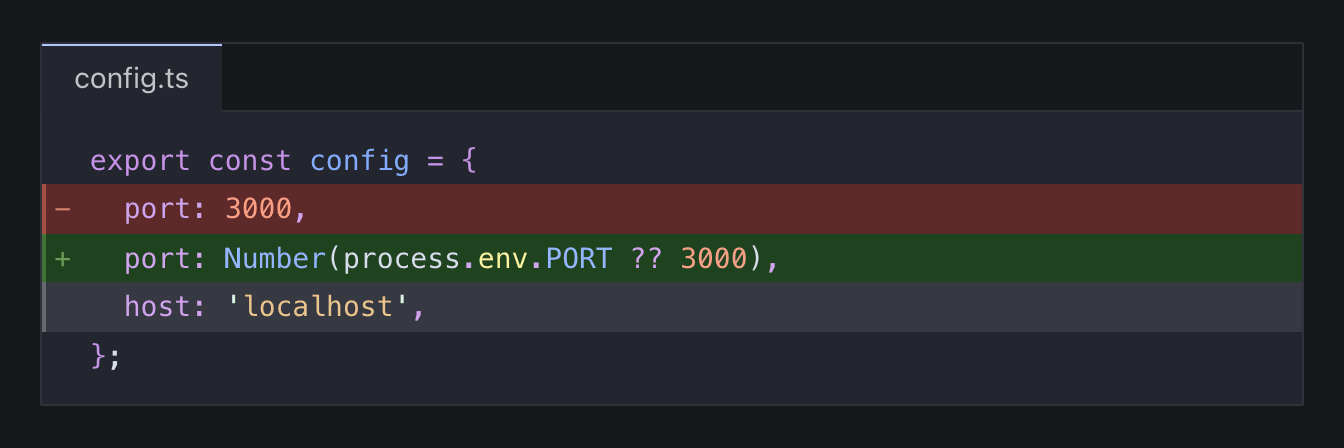
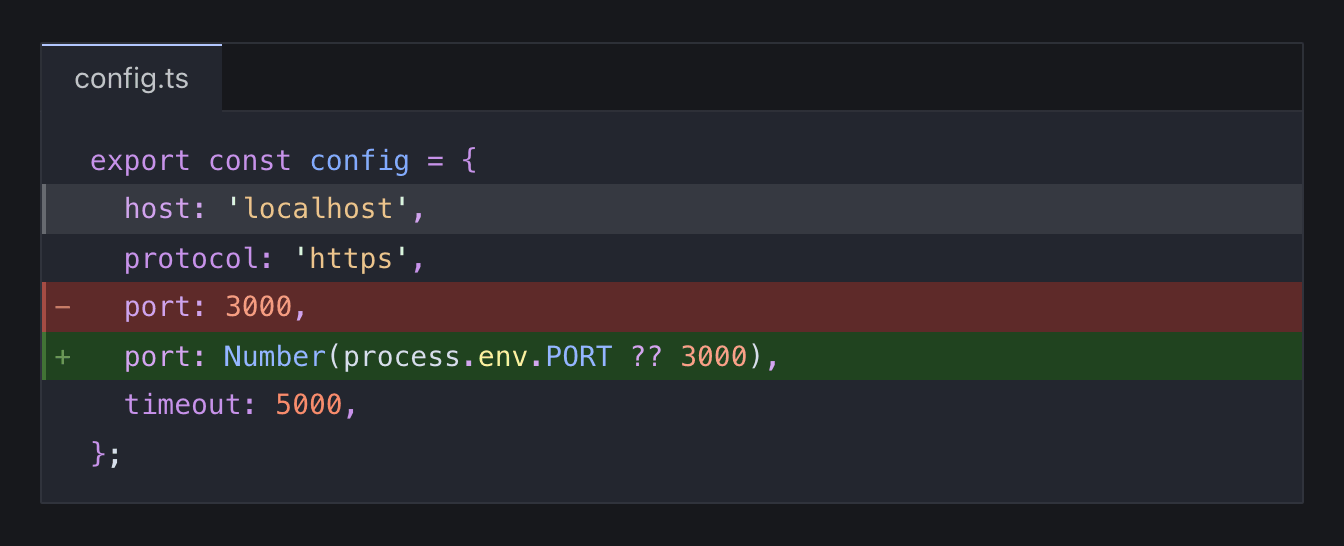
docs: space out the comment notation example
Claude-Session: https://claude.ai/code/session_01GniRZwTYdQnmyghVvVJXuq

diff --git a/docs/e2e/comment-notation.test.ts b/docs/e2e/comment-notation.test.ts
@@ -13,7 +13,7 @@ test('directives change their lines and disappear from the code and the copied t
   await page.keyboard.press('Enter');
   const copied = await page.evaluate(() => navigator.clipboard.readText());
   expect(copied).toBe(
-    "export const config = {\n  port: 3000,\n  port: Number(process.env.PORT ?? 3000),\n  host: 'localhost',\n};",
+    "export const config = {\n  host: 'localhost',\n  protocol: 'https',\n  port: 3000,\n  port: Number(process.env.PORT ?? 3000),\n  timeout: 5000,\n};",
   );
 });
 

diff --git a/design/DECISIONS.md b/design/DECISIONS.md
@@ -905,3 +905,11 @@ Use this format:
 - Decision: `<FeatureCarousel>` excludes `features/comment-notation` from the slides and the picker, even though it is still a `features/…` page in the "Start here" sidebar group. `docs/src/index.mdx` no longer has a `<Feature page="features/comment-notation">` slide. "Start here" then has no features, so it drops out of the carousel groups (its `.filter((group) => group.features.length > 0)` already handles this), and the carousel opens on "Explain code" → Annotations. The sidebar keeps comment notation under "Start here", because that is where authors learn the directive syntax before they use it in a feature.
 - Reason: The user said comment notation is shared syntax, not a feature in its own right, and one of the least impressive things to lead with on the home page.
 - Alternatives: Move comment notation to a different sidebar group so the existing "every `features/…` item is a slide" rule keeps working unchanged. Rejected: the sidebar placement under "Start here" is deliberate (see the "docs structure" decision above) and the user did not ask to change it.
+
+## Comment notation example: highlight first, diff pair set off by plain lines
+
+- Date: 2026-09-26
+- Step: after the plan (docs polish)
+- Decision: The canonical comment-notation example (`config.ts`, previously `port: 3000 [!code --]` / `port: Number(...) [!code ++]` / `host: 'localhost' [!code highlight]` back to back) is now: a highlighted line first (`host`), a plain line (`protocol`), the `--`/`++` pair, then a plain line (`timeout`). Updated everywhere it appeared: `docs/src/content/docs/features/comment-notation.mdx`, `docs/src/content/docs/index.mdx` (removed, see above), `README.md` (and its copy in `packages/starlight-codeblocks/README.md`), `docs/e2e/comment-notation.test.ts`, and the README media PNG (`pnpm readme:media comment-notation`).
+- Reason: The user asked for the highlighted line to lead and for un-highlighted lines to separate each marked line, here and in the README, so each marker reads as its own thing instead of a wall of coloured lines.
+- Alternatives: None; this replaces `design/mockups.html`'s version of the same example (diff pair first, highlight last, no spacing), which is now out of date for this one example.

diff --git a/design/PROGRESS.md b/design/PROGRESS.md
@@ -125,3 +125,4 @@ Update this file after each step in `PLAN.md`. Use one of these states: not star
 | Feature groups by use | done | Sidebar in eight groups by what authors use the features for (scrollycoding in "Explain code" at the user's request), comment notation in "Start here" (DECISIONS.md). README, accessibility page, home page list and DOCS-SITE.md follow; `llms.txt` reads the sidebar. URLs unchanged. |
 | Home page feature carousel | done | `docs/src/components/FeatureCarousel.astro` and `Feature.astro`: one live slide per feature in sidebar order, Lucide icon buttons grouped by the sidebar, link to each page under the example, 7 s rotation with Pause and Play, pause on hover and focus, no rotation or fade under reduced motion, links without JavaScript (DECISIONS.md). Markdown version lists the features by group. `docs/e2e/carousel.test.ts` (selection, rotation with the Playwright clock, pause control, hover, focus, examples still work, keyboard, reduced motion, phone width, axe, no JavaScript). |
 | Carousel: comment notation is not a slide | done | `<FeatureCarousel>` excludes `features/comment-notation` (still in the "Start here" sidebar); carousel now opens on Annotations, with 23 slides (DECISIONS.md). `docs/e2e/carousel.test.ts` updated for the new first slide, tile count and status text. |
+| Comment notation example: highlight first, diff pair set off by plain lines | done | The `config.ts` example (index page removed, its own page, README and package README, `pnpm readme:media`) now leads with the highlighted line and separates the `--`/`++` pair with plain lines on each side (DECISIONS.md). `docs/e2e/comment-notation.test.ts` updated for the copied text. |

diff --git a/README.md b/README.md
@@ -63,9 +63,11 @@ Each section below shows the smallest syntax for a feature and how it looks to r
 Mark lines with directives in code comments. The plugin applies each directive and removes it from the code that readers see and copy.
 
 ```ts
+  host: 'localhost', // [!code highlight]
+  protocol: 'https',
   port: 3000, // [!code --]
   port: Number(process.env.PORT ?? 3000), // [!code ++]
-  host: 'localhost', // [!code highlight]
+  timeout: 5000,
 ```
 
 <img src="https://raw.githubusercontent.com/ewels/starlight-codeblocks/main/.github/assets/readme/comment-notation.png" alt="A TypeScript block with a removed line, an added line and a highlighted line, set by comments that the reader does not see.">

diff --git a/packages/starlight-codeblocks/README.md b/packages/starlight-codeblocks/README.md
@@ -63,9 +63,11 @@ Each section below shows the smallest syntax for a feature and how it looks to r
 Mark lines with directives in code comments. The plugin applies each directive and removes it from the code that readers see and copy.
 
 ```ts
+  host: 'localhost', // [!code highlight]
+  protocol: 'https',
   port: 3000, // [!code --]
   port: Number(process.env.PORT ?? 3000), // [!code ++]
-  host: 'localhost', // [!code highlight]
+  timeout: 5000,
 ```
 
 <img src="https://raw.githubusercontent.com/ewels/starlight-codeblocks/main/.github/assets/readme/comment-notation.png" alt="A TypeScript block with a removed line, an added line and a highlighted line, set by comments that the reader does not see.">
